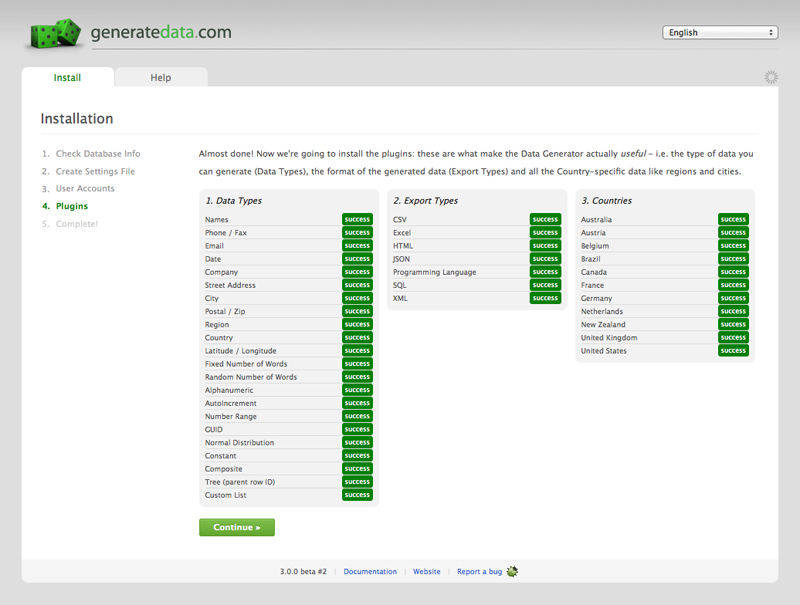
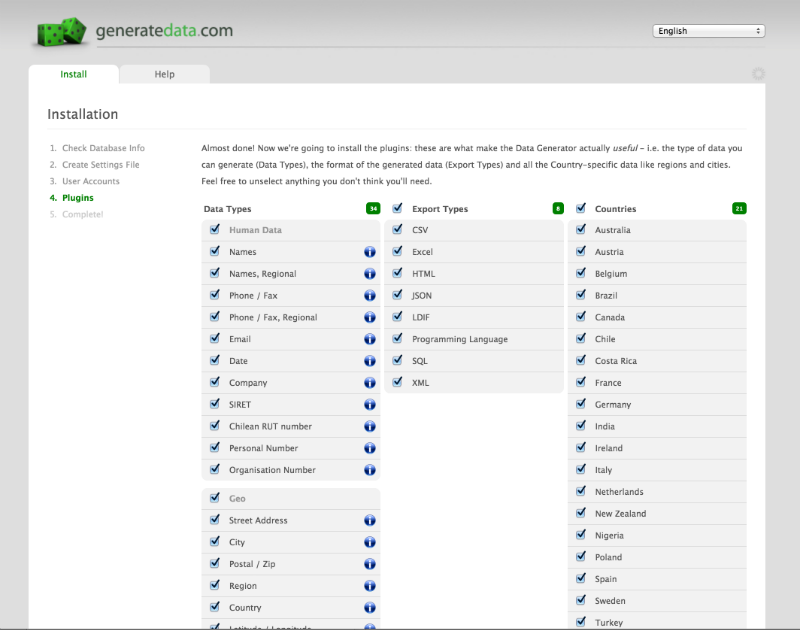
Doc update for 3.2.3

diff --git a/install.html b/install.html
@@ -222,8 +222,13 @@
 						<li>
 							<a href="assets/screenshots/step4.png" title="Installation: step 4" rel="lightbox[doc]" class="screenshot"><img src="assets/screenshots/step4_th.png" /></a>
 							<p>
-								Step 4 installs all the plugins that came bundled with the script. All you need to do here is click the button. 
-								If there were any problems running the installation code for any module, it will show up.
+								Step 4 installs all the plugins that came bundled with the script [note: this step changed
+								with version 3.2.2]. On this page, you are given the option of selecting exactly what plugins
+								you want to install. Since the list of plugins keeps getting bigger and bigger, you may
+								find that some of them (Data Types especially) aren't that useful for you. Just mouseover the
+								info icons for the Data Types for a one-line description of what they do. The Export Types
+								and Countries are self-explanatory. After making your plugin selection click the button
+								at the bottom of the page to continue.
 							</p>
 							<div style="clear:both"></div>
 						</li>

diff --git a/settingsFile.html b/settingsFile.html
@@ -270,6 +270,25 @@ $pluginSettings = array(
                                 setting lets you control the size of the history. Defaults to <code>200</code>.
                             </td>
                         </tr>
+						<tr>
+							<td>$apiEnabled</td>
+							<td><span class="label label-info">optional</span></td>
+							<td>boolean</td>
+							<td>
+								If you want to enable the REST API, this needs to be set to <code>true</code>. Check
+								out the <a href="api.html">API Documentation</a> for more info.
+							</td>
+						</tr>
+						<tr>
+							<td>$timeout</td>
+							<td><span class="label label-info">optional</span></td>
+							<td>integer</td>
+							<td>
+								This defaults to <b>300</b> (5 minutes). If you have a slow/busy CPU or are generating
+								really large amounts of data (or a combination of the two), the generation requests
+								can sometimes timeout. This setting lets you override the default value.
+							</td>
+						</tr>
 					</tbody>
                 </table>
 			</section>
